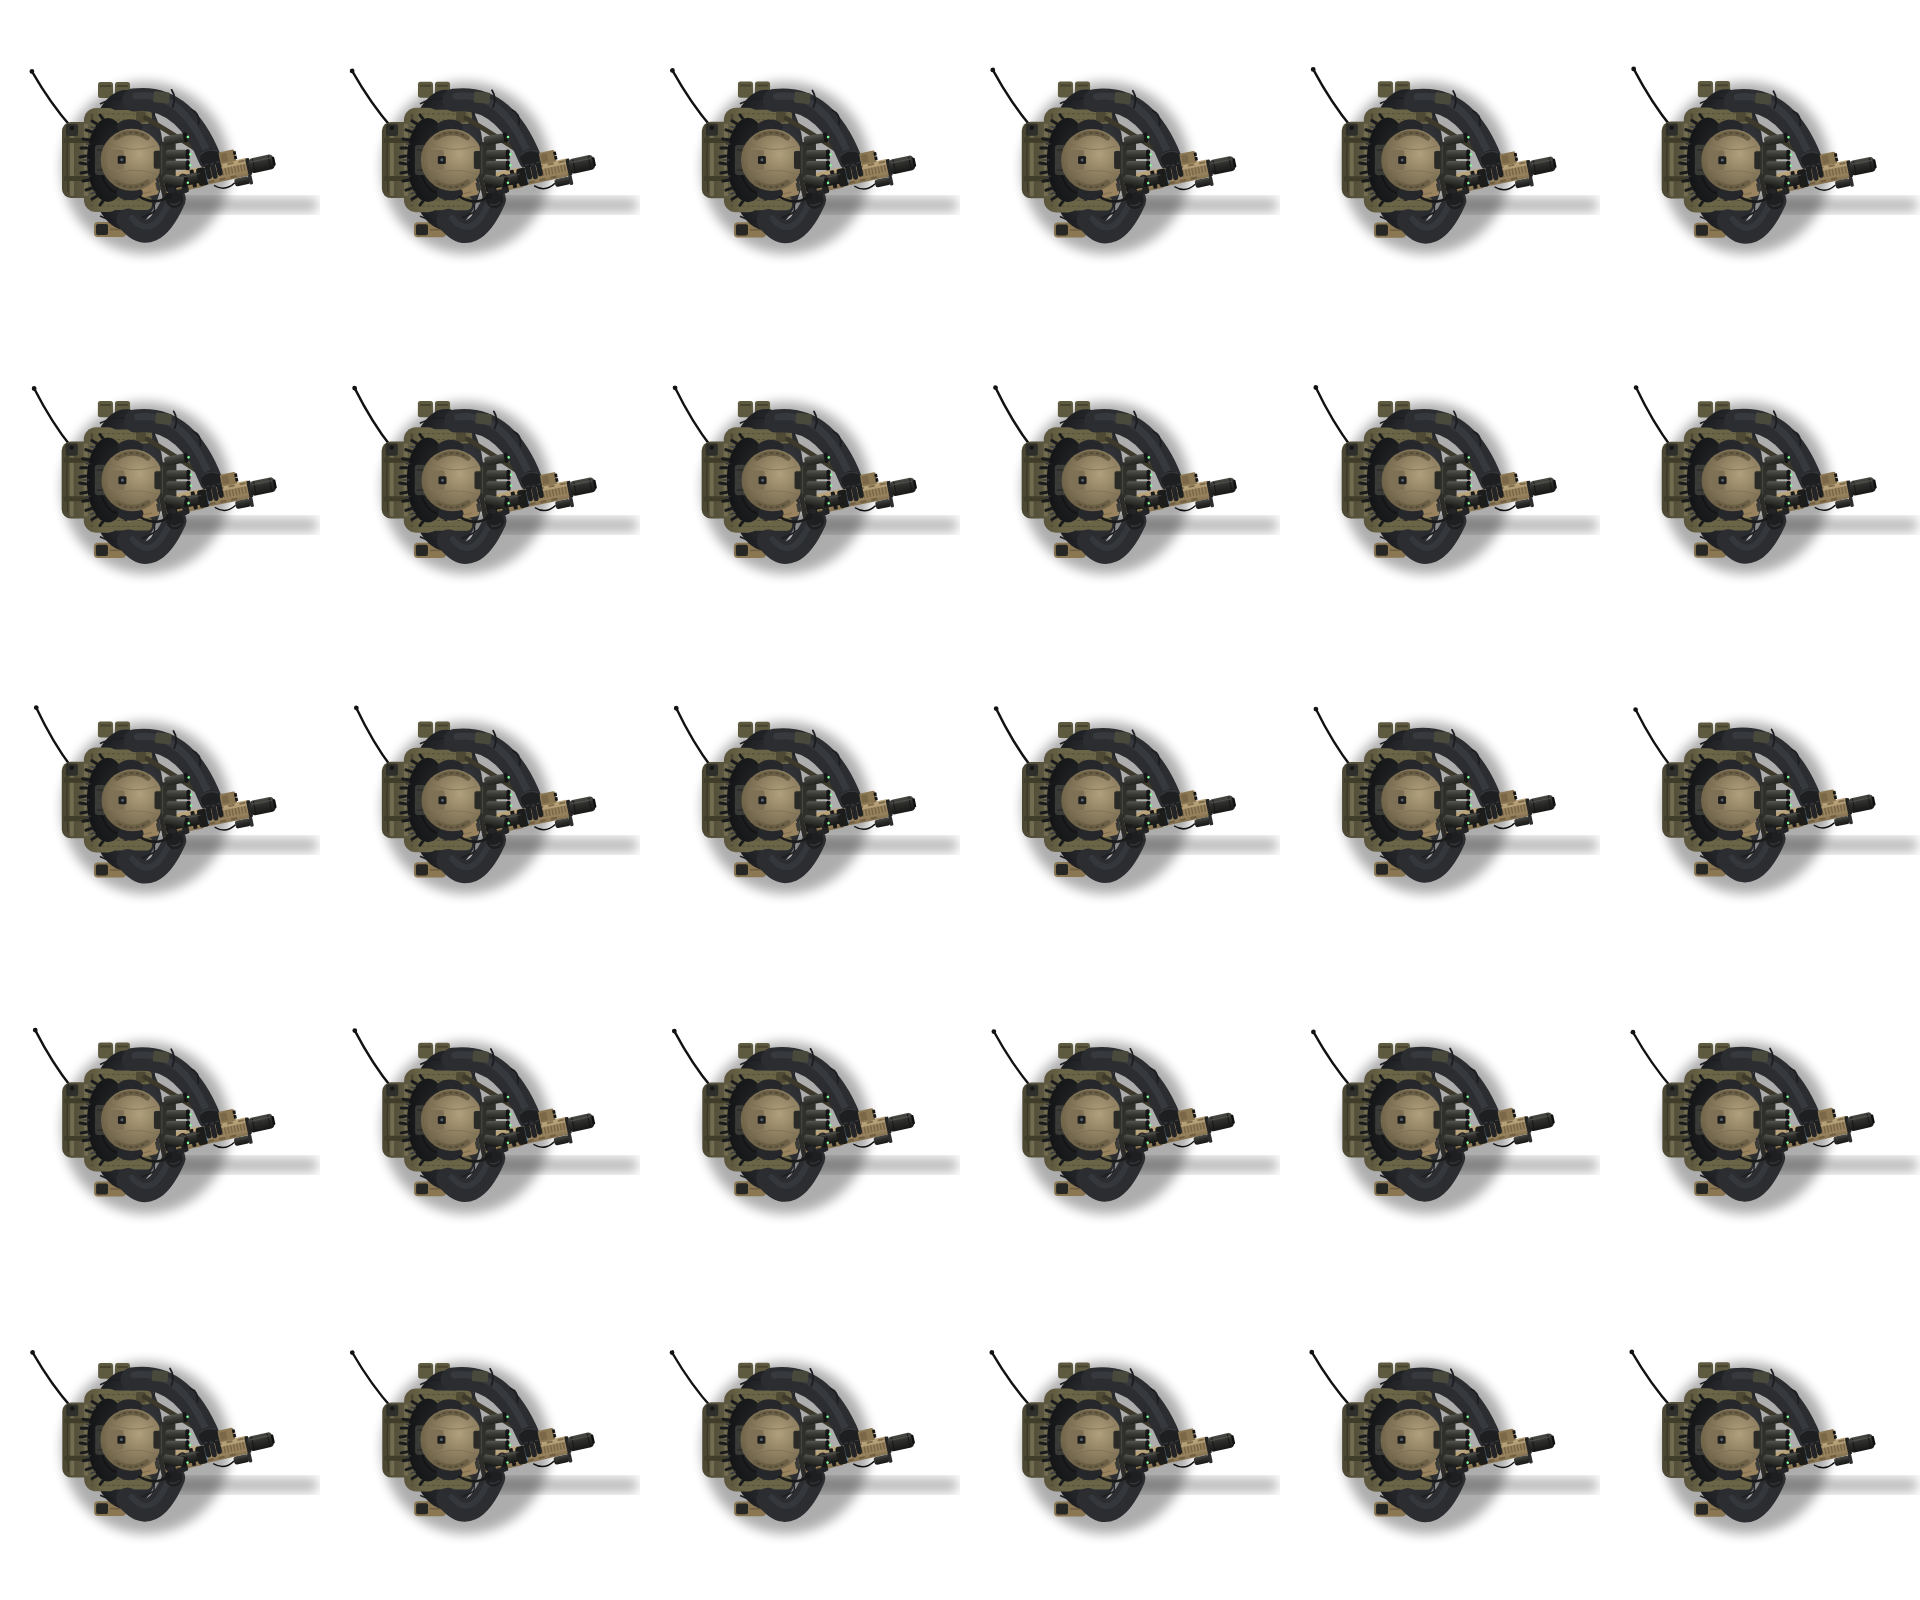
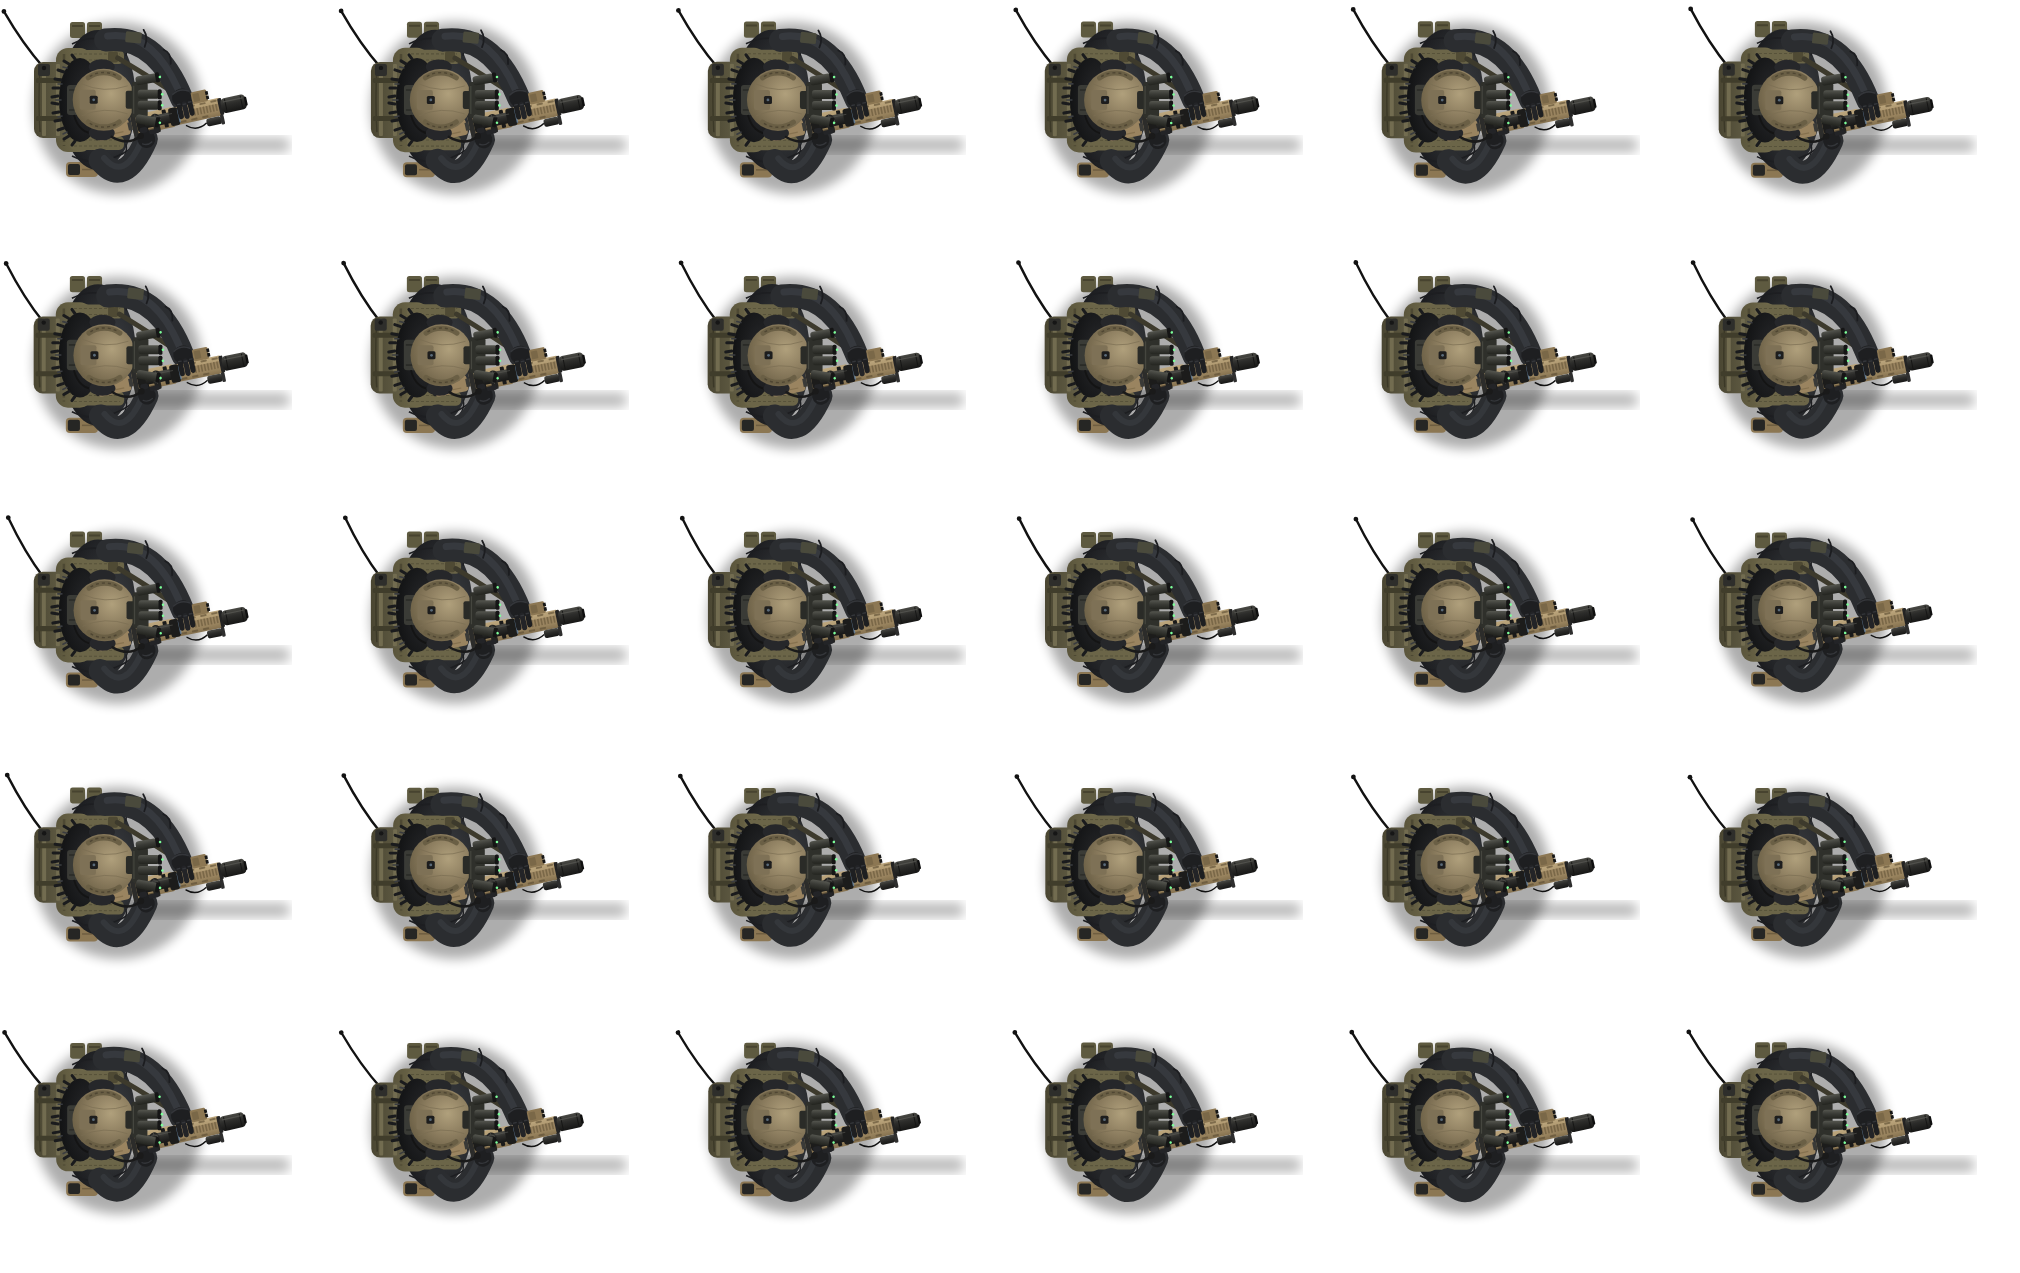
Adjusted operator assets, so that they are all under 2048 x 2048, and have identical frame sizes.
Added Debug option for the Input Manager.

Removed Vision Cone Usage.

diff --git a/src/Utils/InputManager.cpp b/src/Utils/InputManager.cpp
@@ -12,6 +12,7 @@ void InputManager::Poll()
     _input.fire = _input.aim && IsMouseButtonDown(MOUSE_BUTTON_LEFT);
     _input.reload = IsKeyPressed(KEY_R);
     _input.sprint = IsKeyDown(KEY_LEFT_SHIFT);
+    _input.debug = IsKeyPressed(KEY_INSERT);
 
     Vector2 move = {
         static_cast<float>(IsKeyDown(KEY_D)) - static_cast<float>(IsKeyDown(KEY_A)),
@@ -20,12 +21,18 @@ void InputManager::Poll()
 
     // Normalize so diagonals aren't faster than cardinal movement.
     const float length = std::sqrt(move.x * move.x + move.y * move.y);
+
     if (length > 0.0f)
     {
         move.x /= length;
         move.y /= length;
     }
     _input.move = move;
+
+    if (_input.debug)
+    {
+        TraceLog(LOG_INFO, "Debug Pressed!");
+    }
 }
 
 const PlayerInput& InputManager::Get() const

diff --git a/src/States/GameState.cpp b/src/States/GameState.cpp
@@ -30,7 +30,6 @@ void GameState::Draw()
     _camera.Begin();
     _map.Draw();
     _character.Draw();
-    _visionCone.Draw();
     DrawAimingLine();
     _camera.End();
 }
@@ -45,12 +44,11 @@ void GameState::Update()
     _character.Update(input, worldMousePos, _map);
 
     _camera.Update({_character.GetRect().x, _character.GetRect().y}, input.aim);
-    _visionCone.Update(_character.GetBodyCenter(), _character.GetRotation());
 }
 
 void GameState::OnEnter()
 {
-    _character.SetPosition(500, 350);
+    _character.SetPosition(170, 850);
 
     _camera.Init({_character.GetRect().x, _character.GetRect().y});
 }

diff --git a/src/Utils/DrawUtils.cpp b/src/Utils/DrawUtils.cpp
@@ -11,7 +11,7 @@ void DrawUtils::DrawAnimation(const Animation2D& animation, int frameIndex, Vect
 
     const Rectangle destRect = { position.x, position.y, sourceRect.width, sourceRect.height };
 
-    const Vector2 origin = { sourceRect.width / 2, sourceRect.height / 2 };
+    const Vector2 origin = { 132, 100 };
 
     DrawTexturePro(*texture, sourceRect, destRect, origin, rotation, WHITE);
 }

diff --git a/src/vision/VisionCone.cpp b/src/vision/VisionCone.cpp
@@ -18,11 +18,11 @@ void VisionCone::Update(Vector2 position, float rotation)
 
     if (InputManager::GetInstance().Get().aim)
     {
-        _sizeOffset = 25;
+        _sizeOffset = 30;
     }
     else
     {
-        _sizeOffset = 60;
+        _sizeOffset = 70;
     }
 }
 

diff --git a/src/Constants/AssetConstants.h b/src/Constants/AssetConstants.h
@@ -6,7 +6,7 @@
 #define TOPDOWNSHOOTER
 
 
-struct AssetConstants
+ struct AssetConstants
 {
     // Operator
     static constexpr const char* ANIM_OPERATOR_NVG_EQUIPPED_IDLE = "../resources/Operator/nvg_equipped/operator_nvg_equipped_idle_sheet.png";

diff --git a/src/Utils/InputManager.h b/src/Utils/InputManager.h
@@ -18,6 +18,8 @@ struct PlayerInput
     bool reload = false;    // true only on the frame the key is pressed
 
     bool sprint = false;
+
+    bool debug = false;
 };
 
 class InputManager

diff --git a/src/States/GameState.h b/src/States/GameState.h
@@ -35,8 +35,6 @@ private:
     GameCamera _camera;
 
     TileMap _map;
-
-    VisionCone _visionCone;
 };
 
 #endif //TOPDOWNSHOOTER_GAMESTATE
